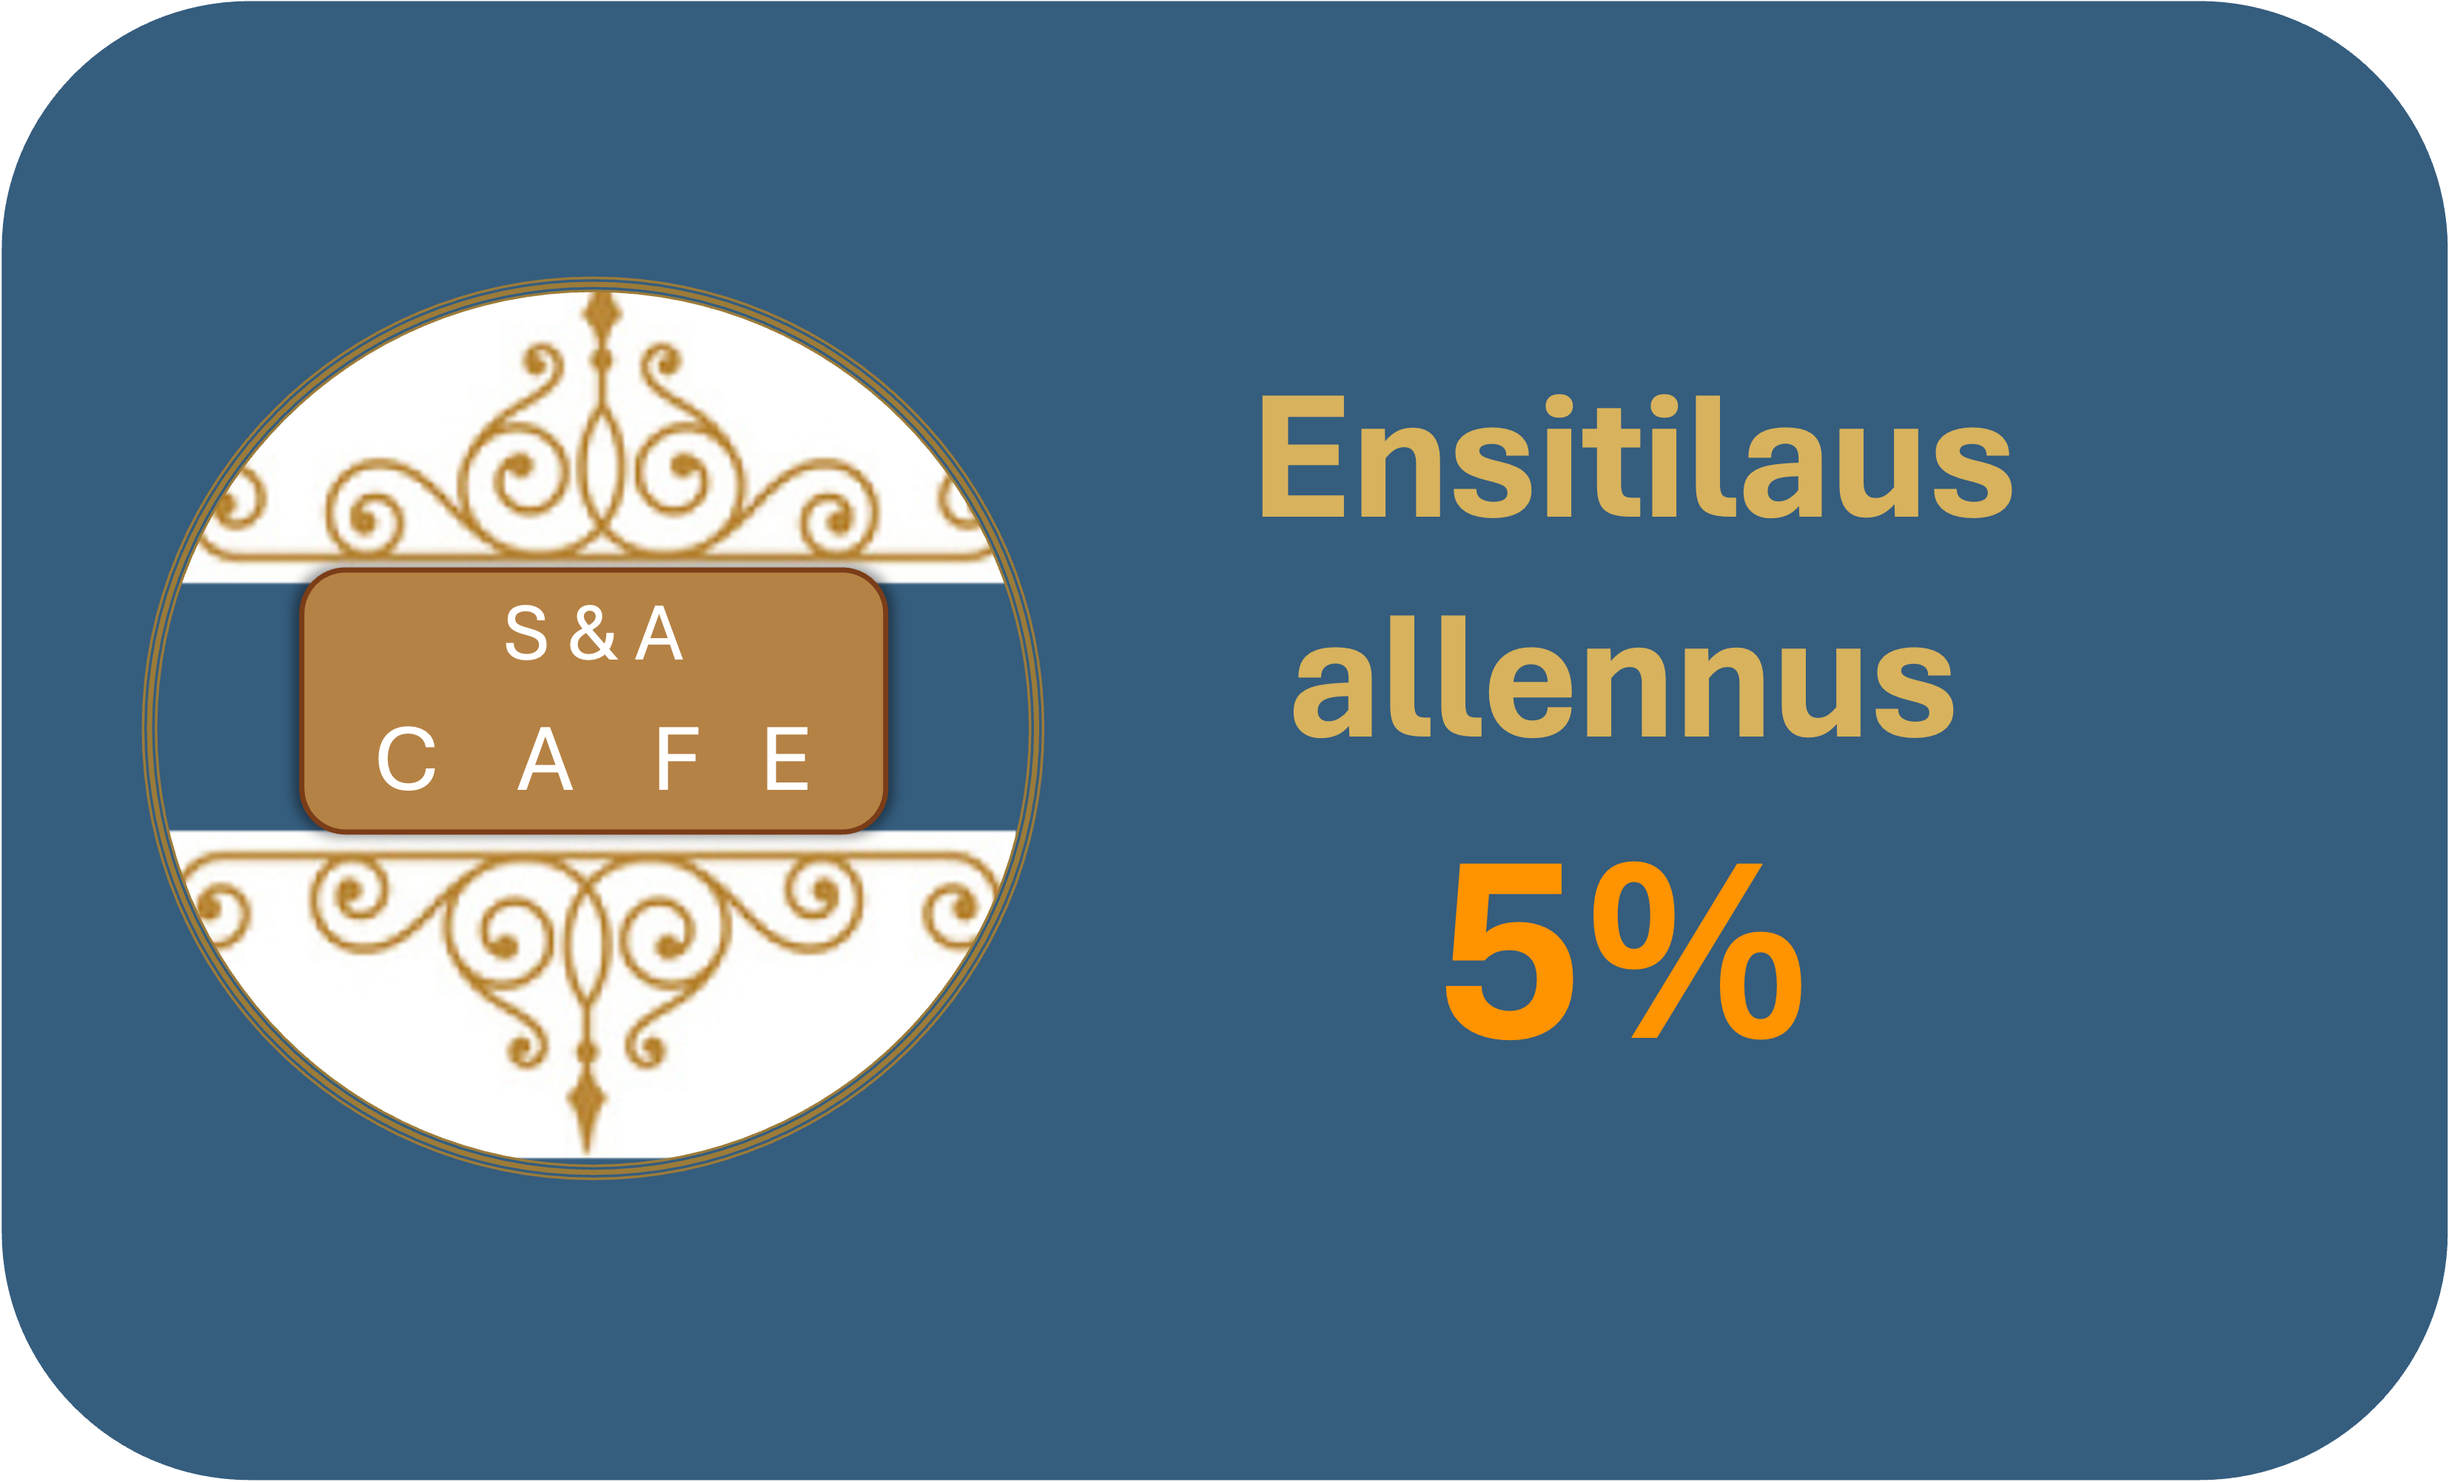
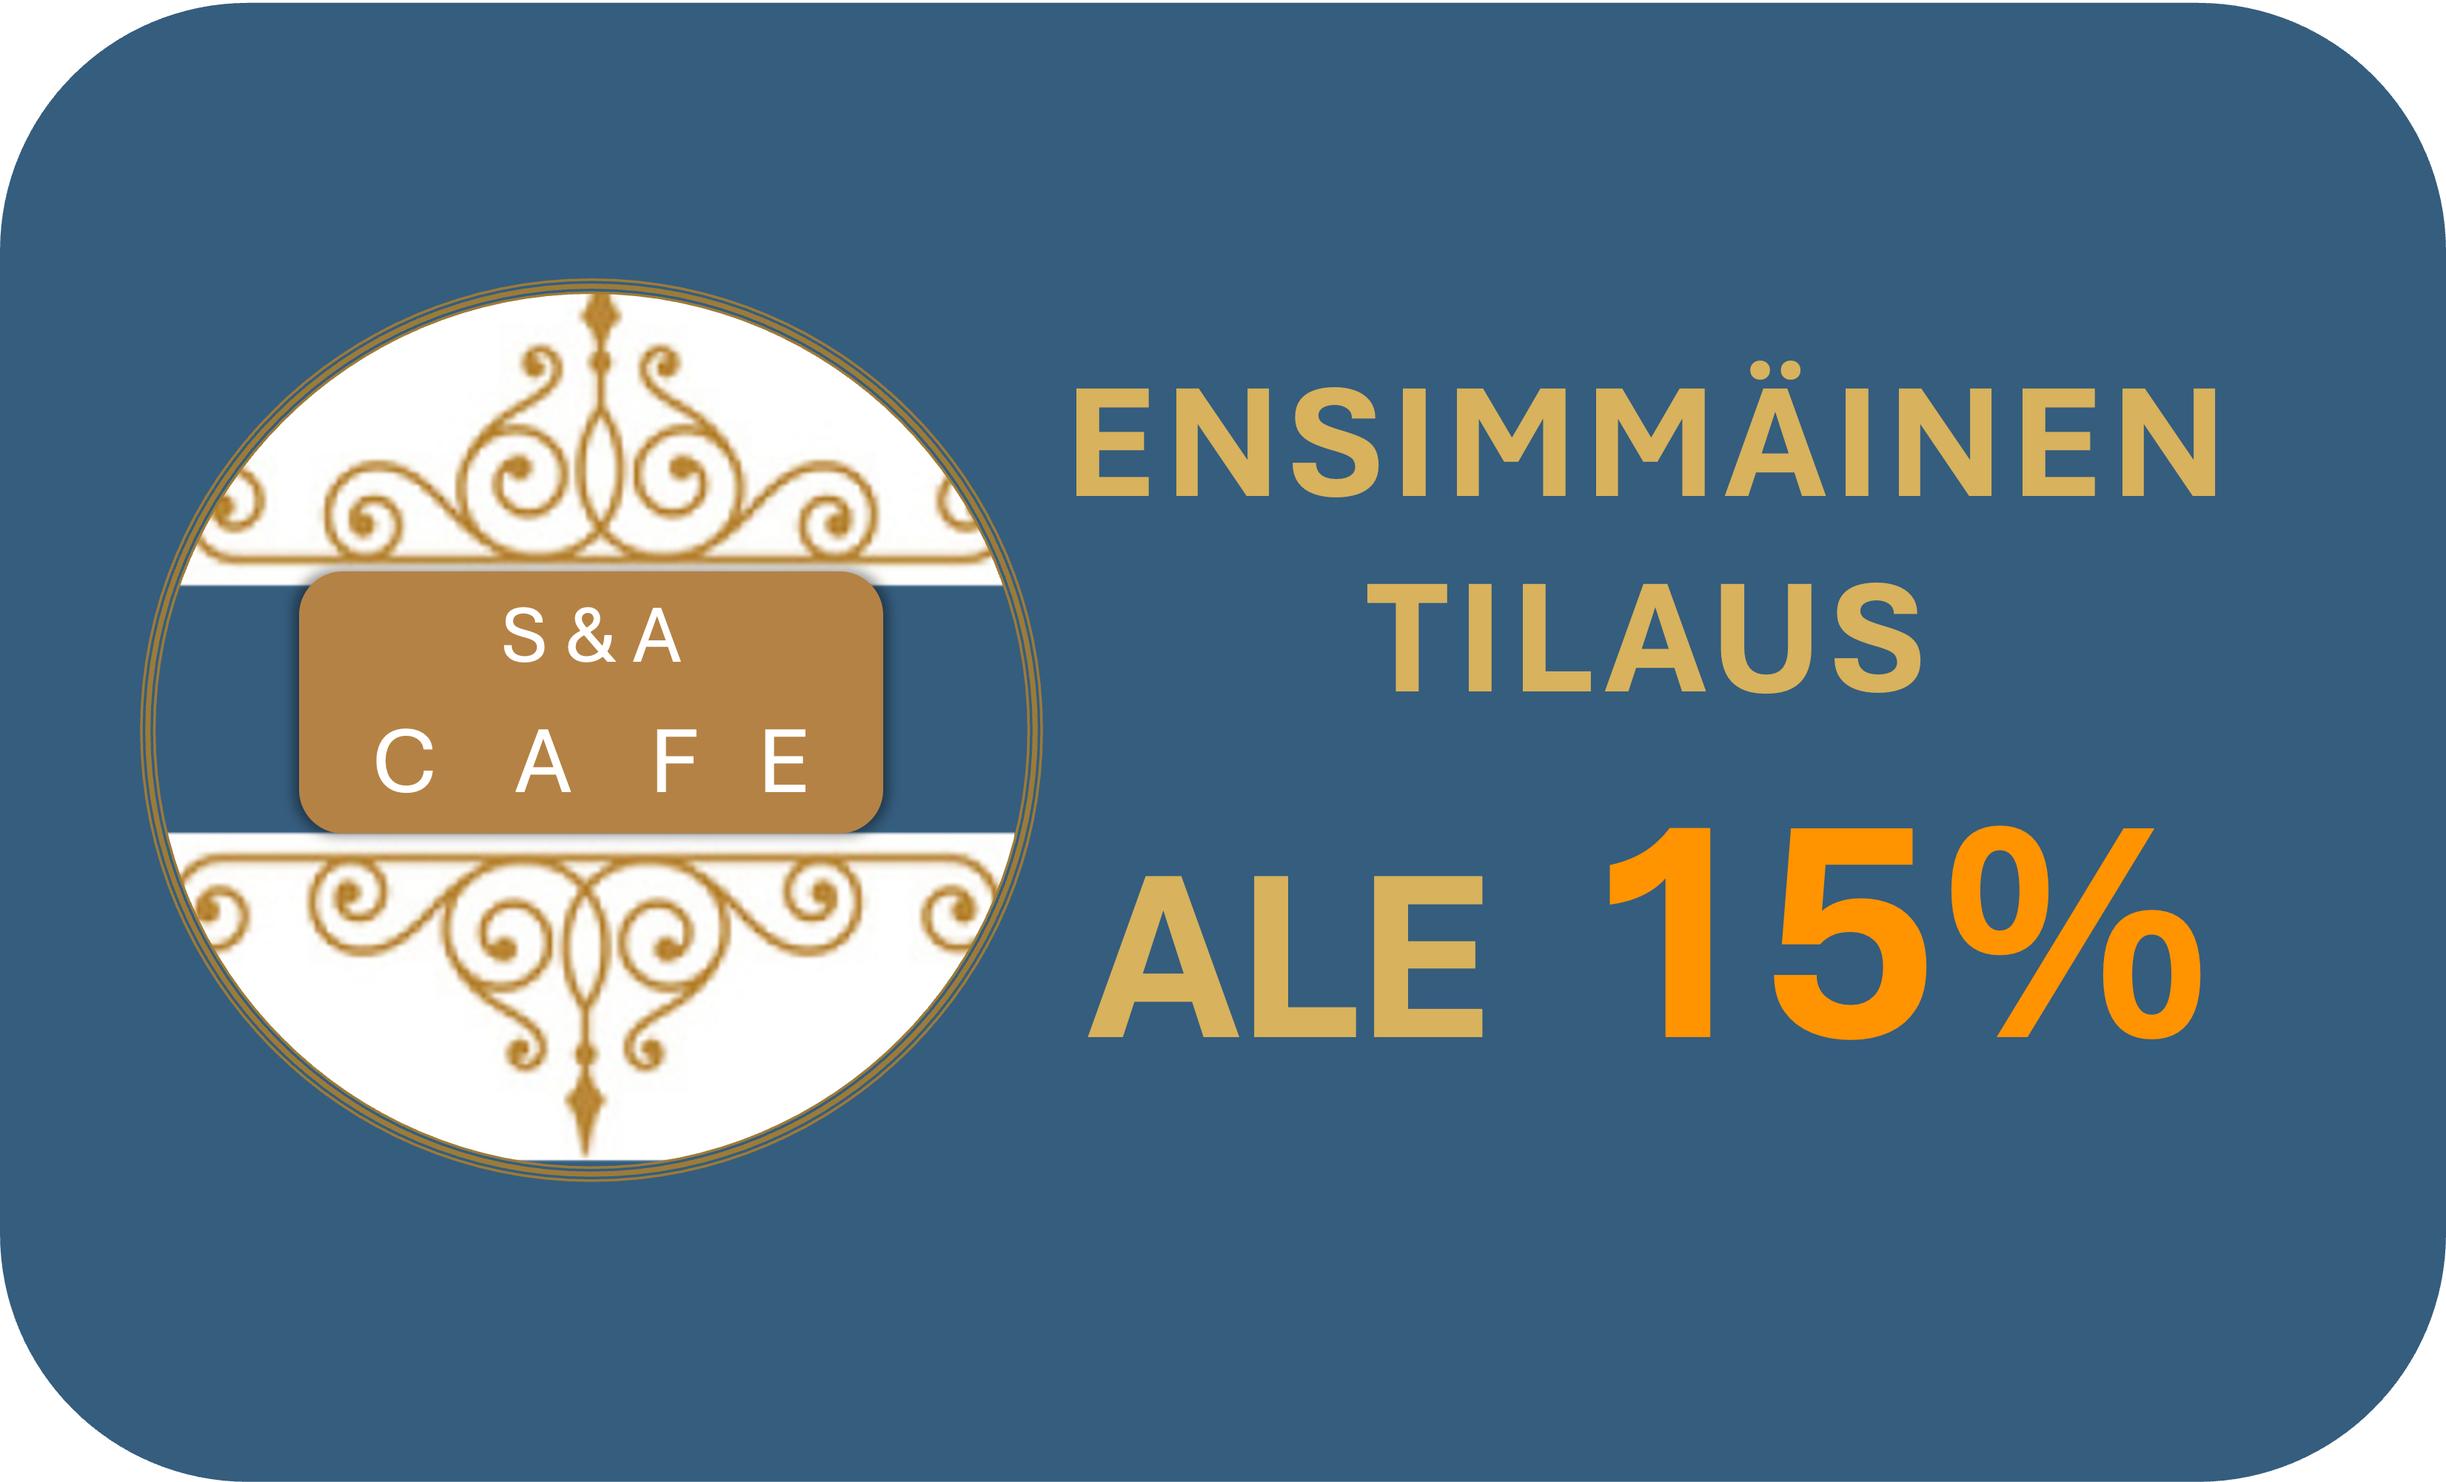
lisää kuvaa ja uusi kupongit sivu

diff --git a/html/fi/13Kupongit.html b/html/fi/13Kupongit.html
@@ -1,0 +1,190 @@
+<!DOCTYPE html>
+<html lang="en">
+
+<head>
+  <meta charset="UTF-8">
+  <meta name="viewport" content="width=device-width, initial-scale=1.0">
+  <link href="../../css/7Kayttaja.css" rel="stylesheet">
+  <title>S&A CAFE</title>
+  <link rel="shortcut icon" type="image" href="../../css/kuvat/cake.png">
+
+  <style>
+    .changecontent::after {
+      content: '';
+      color: rgb(192, 160, 122);
+      animation: changetext 10s infinite linear;
+      font-weight: bold;
+      margin: 10px;
+    }
+
+    @keyframes changetext {
+      0% {
+        content: "Herkullisia kakkuja";
+      }
+
+      50% {
+        content: "Kylmää tai lämmintä juotavaa";
+      }
+
+      100% {
+        content: "Lämmintä ruokaa ja naposteltavaa";
+      }
+    }
+
+    /* footer */
+
+    .changecontent2::after {
+      content: "Tervetuloa kakkukahveille!";
+      color: rgb(192, 160, 122);
+      animation: changetext2 10s infinite linear;
+      margin: 10px;
+      font-weight: bold;
+    }
+
+    @keyframes changetext2 {
+      20% {
+        content: "Liity kanta-asiakkaaksi, niin saat 15 %:n alennuksen ensimmäisestä tilauksestasi!";
+      }
+
+      40% {
+        content: "Liittyminen on maksutonta";
+      }
+
+      60% {
+        content: "Luo unelmiesi kakku!";
+      }
+
+      80% {
+        content: "Kotiinkuljetus alkaen 2,95€";
+      }
+
+      100% {
+        content: "Tervetuloa kakkukahveille!";
+      }
+    }
+  </style>
+
+  <script src="/javascript/default.js" defer></script>
+  <script src="/javascript/1Etusivu.js" defer></script>
+</head>
+
+<body>
+  <header>
+    <div>
+      <nav class="icons">
+        <ul>
+          <li class="kieli">
+            <label for="kieli">Valitse kieli: </label>
+            <select id="kieli" onchange="changeLanguage(this.value)">
+              <option value="FI" selected>Suomi</option>
+              <option value="EN">Englanti</option>
+              <option value="CN">Kiina</option>
+              <option value="ET">Viro</option>
+              <option value="SV">Ruotsi</option>
+            </select>
+          </li>
+          <li>
+            <a href="11Login.html">
+              <span class="käyttäjä"></span>
+            </a>
+          </li>
+          <li>
+            <a href="8Suosikit.html">
+              <span class="suosikit"></span>
+            </a>
+          </li>
+          <li>
+            <a href="9Ostoskori.html">
+              <span class="ostoskori"></span>
+            </a>
+          </li>
+        </ul>
+      </nav>
+    </div>
+
+  </header>
+  <main>
+
+    <div class="image-container">
+      <a href="1Etusivu.html"><img src="../../css/kuvat/logo.png" class="logo" alt="logo-kuva"></a>
+      <img src="../../css/kuvat/kupongit_header.jpg" class="cakeImg" alt="cakes">
+    </div>
+
+    <nav id="navbar">
+      <a href="1Etusivu.html" class="navItem">Etusivu</a>
+      <a href="2AboutUs.html" class="navItem">About Us</a>
+      <div class="dropdown">
+        <button class="dropdown-toggle" id="menuButton">
+          Menu
+        </button>
+        <div class="dropdown-menu" id="menuDropdown">
+          <a class="dropdown-item" href="3MenuPage1.html">Kakut</a>
+          <a class="dropdown-item" href="3MenuPage2.html">Suolaista</a>
+          <a class="dropdown-item" href="3MenuPage3.html">Makeaa</a>
+          <a class="dropdown-item" href="3MenuPage4.html">Lämmintä ruokaa</a>
+          <a class="dropdown-item" href="3MenuPage5.html">Juotavaa</a>
+        </div>
+      </div>
+      <a href="5Yhteydenotto.html" class="navItem">Ota yhteyttä</a>
+      <a href="6Poytavaraus.html" class="navItem">Varaa pöytä</a>
+    </nav>
+
+    <main class="main">
+      <div class="aside1">
+        <ul class="kuvat" style="list-style: none;">
+          <li>
+            <a href="7Kayttaja.html">
+              <span class="tiedostot"></span>
+            </a>
+          <li>
+            <a href="12Tilaus.html">
+              <span class="tilaus"></span>
+            </a>
+          </li>
+          <li><a href="13Kupongit">
+              <span class="kupongit"></span>
+
+            </a>
+          </li>
+        </ul>
+      </div>
+
+      <div class=aside2 id="omatiedot">
+        <h1>Kupongit</h1><br>
+
+          <p>Tähän tulee käyttäjän kupongit. alhalla on esimerkki.</p>
+          <table>
+            <tbody id = "kupongit_table">
+              <tr>
+                <td>
+                  <img src="../../css/kuvat/ensi_tilaus.png" style="width: 70%;">
+                </td>
+                </tr>
+                <tr>
+                <td>
+                  <img src="../../css/kuvat/opiskelia_elakelainen.png" style="width: 70%;">
+                </td>
+
+              </tr>
+
+
+            </tbody>
+
+
+          </table>
+
+      </div>
+    </main>
+    <footer class="footer-container">
+      <p class="footerP">&copy; S&A CAFE 2024</p>
+      <div class="changecontent2">
+      </div>
+      <div class="footer">
+        <a href="paakayttaja.html">Pääkäyttäjän Tietohallinta</a><br>
+        <p></p>
+        <a href="palaute.html">Palute</a>
+      </div>
+    </footer>
+</body>
+
+</html>
